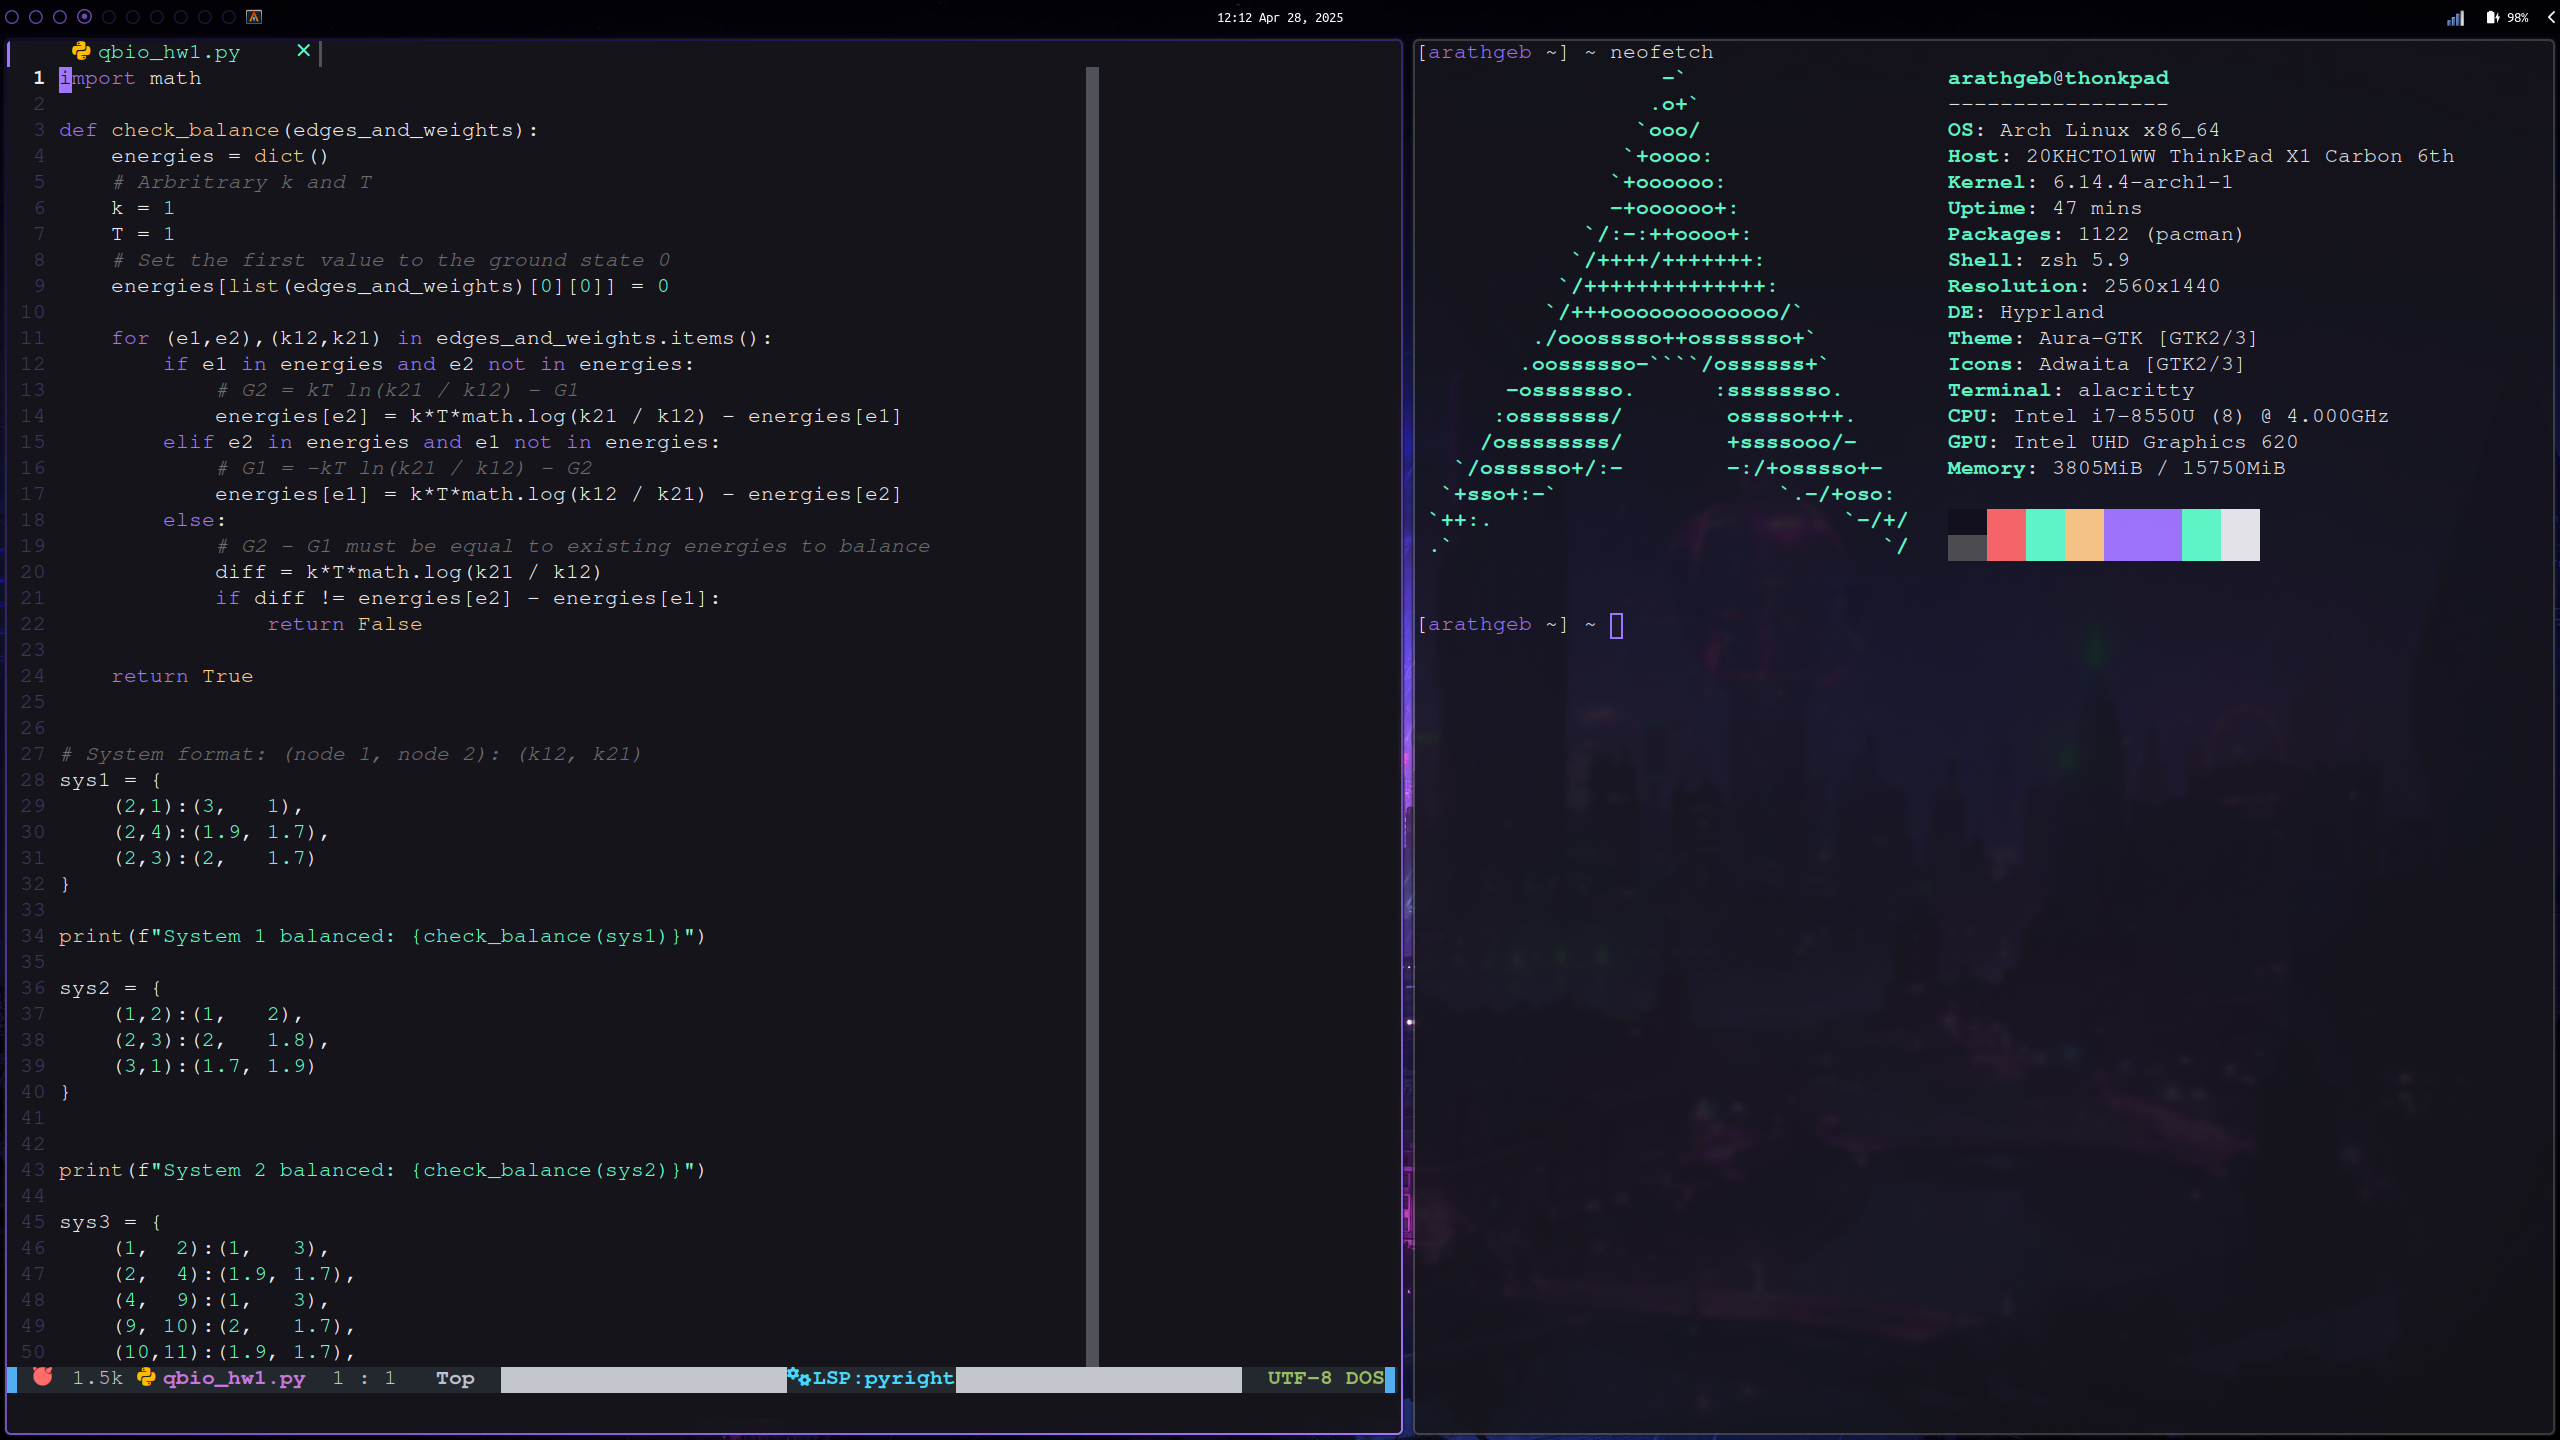
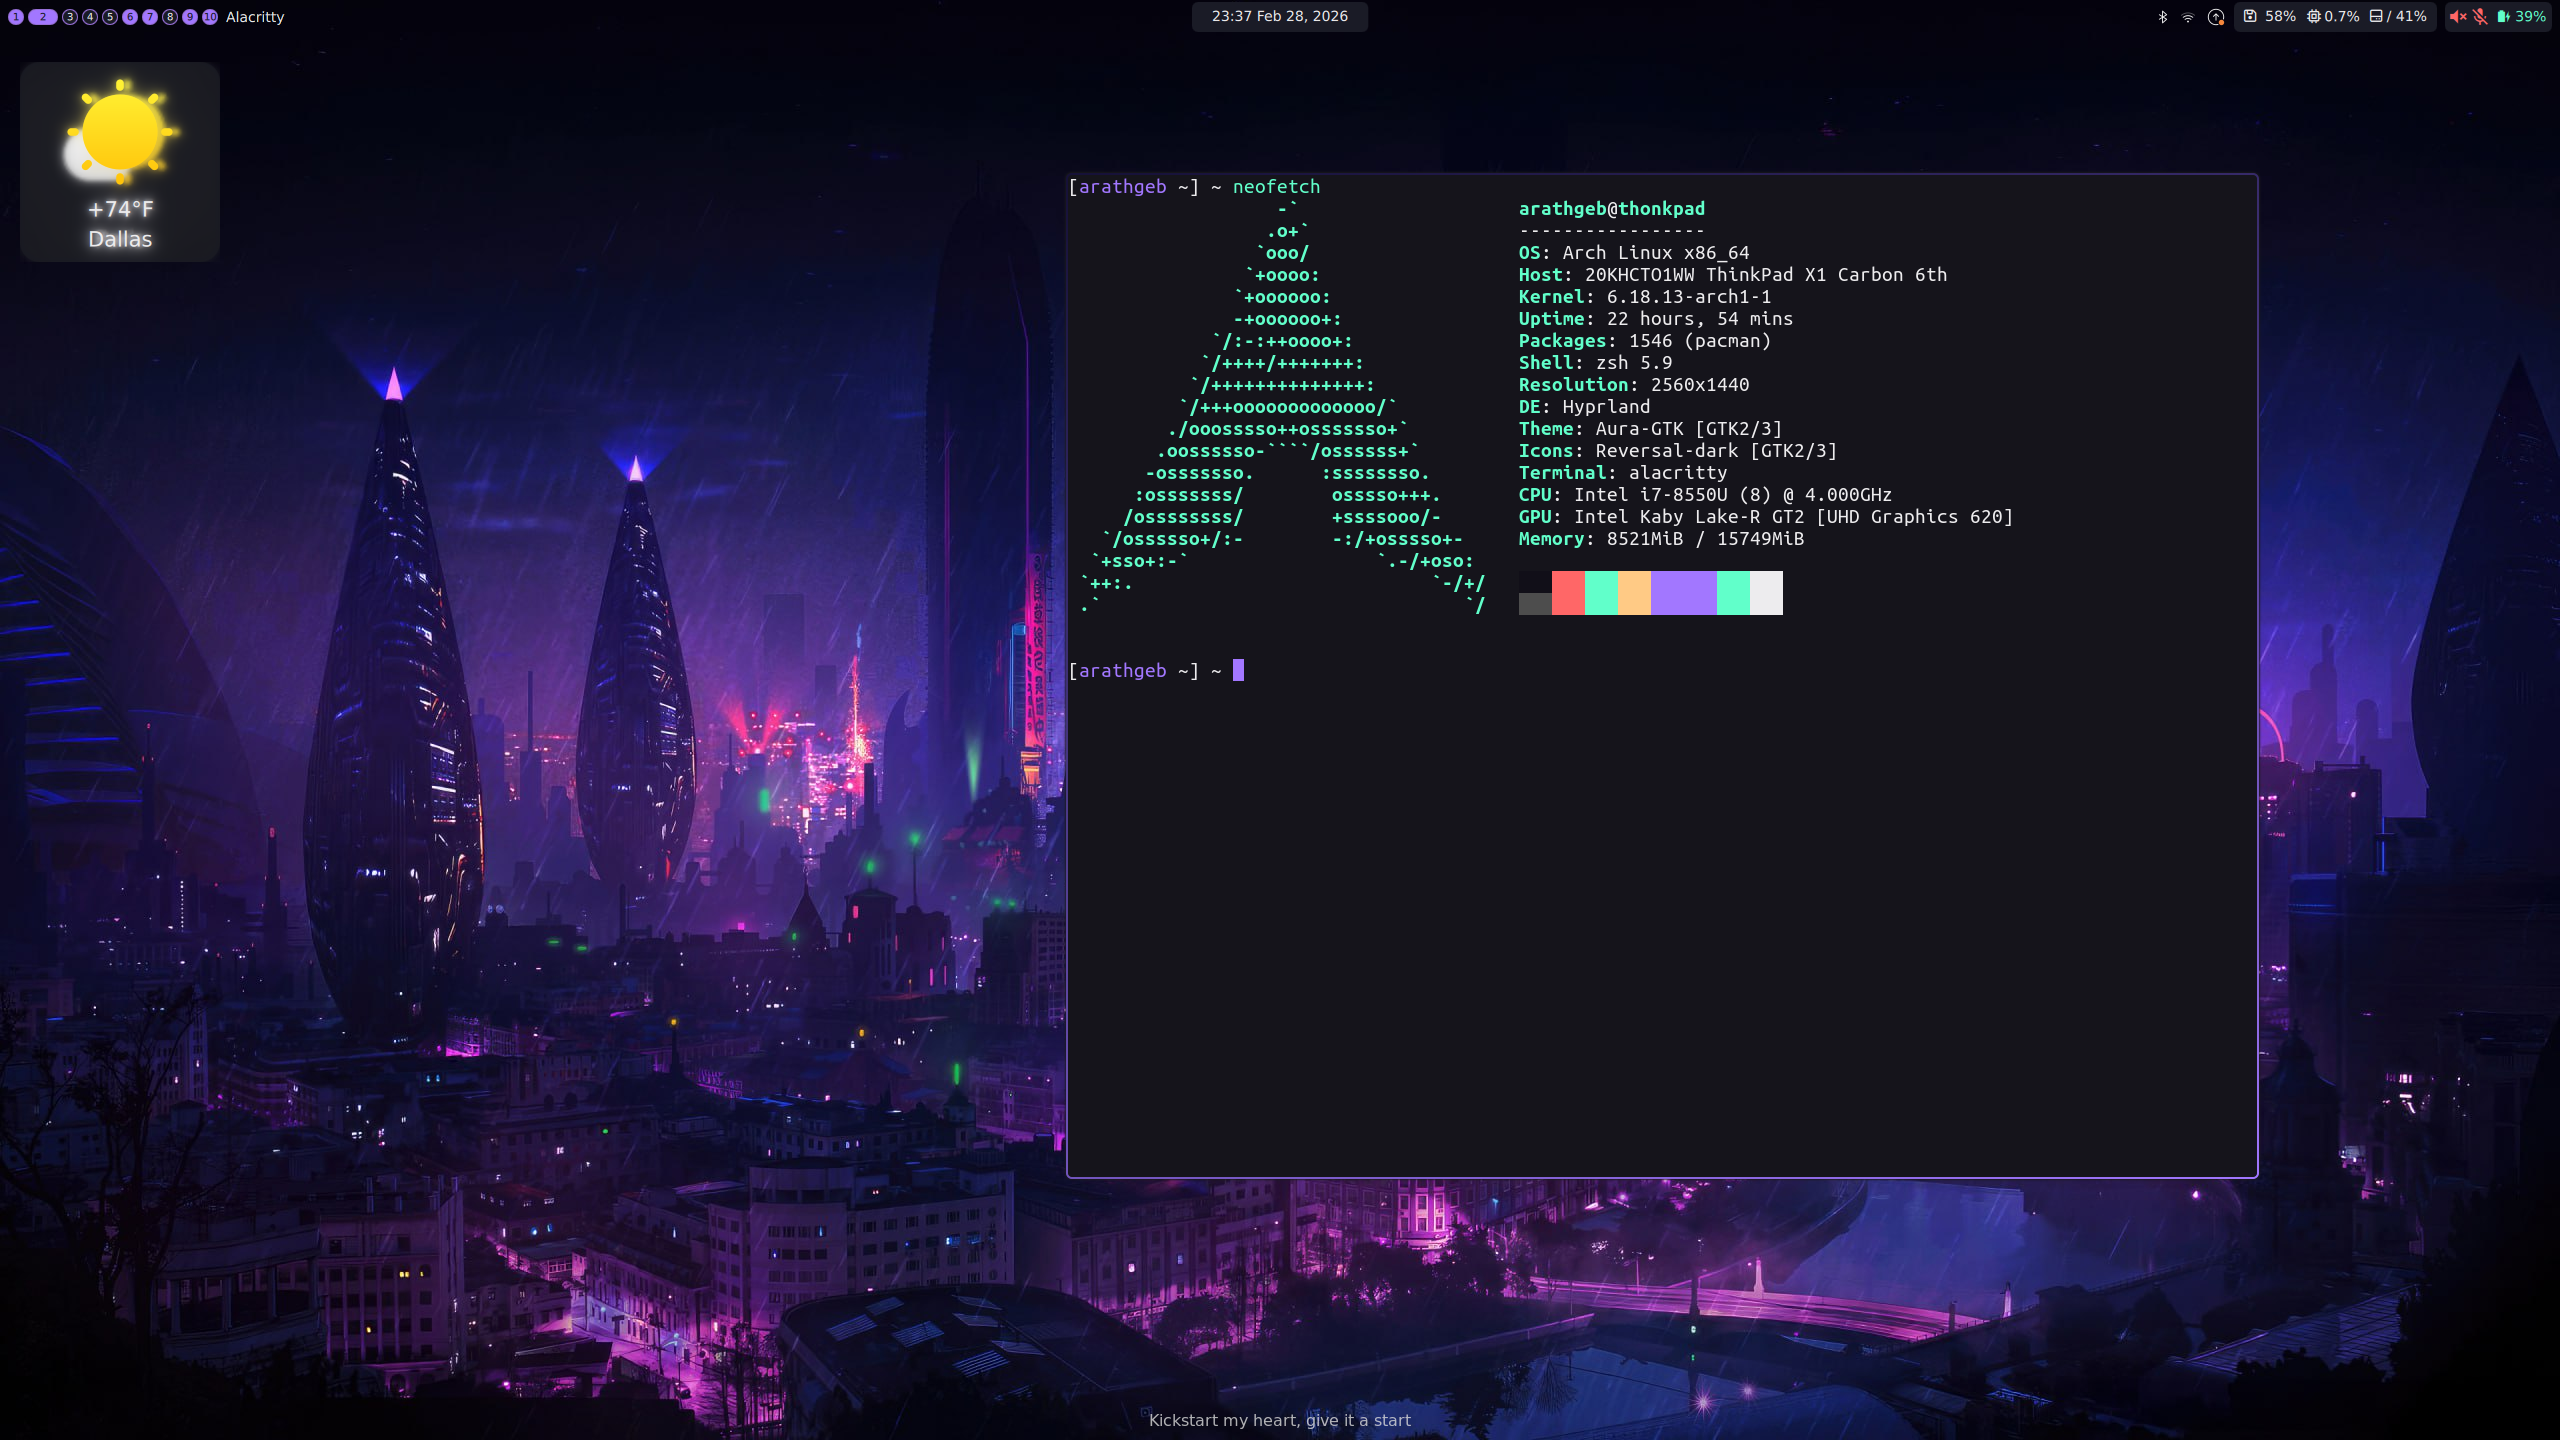
Add weather tile

diff --git a/.config/quickshell/services/Weather.qml b/.config/quickshell/services/Weather.qml
@@ -1,0 +1,83 @@
+pragma Singleton 
+
+import Quickshell
+import Quickshell.Io
+import QtQuick
+import qs
+
+Singleton {
+    id: root
+
+    property list<Information> weatherInformation: []
+
+    readonly property var icons: {
+        "m": "weather-few-clouds",
+        "?": "weather-none-available",
+        "mm": "weather-clouds",
+        "=": "weather-fog",
+        "///": "weather-storm",
+        "//": "weather-showers",
+        "**": "weather-snow",
+        ".": "weather-showers-scattered",
+
+    /*
+    "LightRain": "/",
+    "LightSleet": "x",
+    "LightSleetShowers": "x/",
+    */
+        "*/": "weather-snow-rain",
+        "*": "weather-snow-scattered",
+        "o": "weather-clear",
+        "/!/": "weather-showers-scattered-storm",
+        "!/": "weather-showers-scattered-storm",
+        "*!*": "weather-snow-storm",
+        "mmm": "weather-many-clouds",
+    }
+
+    function getUrl() {
+        let urlbase = `"https://wttr.in/{%1`.arg(Config.weatherCities[0])
+        for (let i = 1; i < Config.weatherCities.length; i++) {
+            urlbase += ",%1".arg(Config.weatherCities[i])
+        }
+        urlbase += `}?u&format=%l+%x+%t\\n"`
+        return urlbase
+    }
+
+    Process {
+        id: checkWeather
+        command: [ "sh", "-c", "curl -s " +  root.getUrl() ]
+        running: true
+        stdout: SplitParser {
+            onRead: data => {
+                console.log("Got input", data)
+                if (weatherInformation.length === Config.weatherCities.length) {
+                    weatherInformation.clear()
+                }
+                const [city, condition, temp] = data.split(" ")
+                console.log(city, condition, temp)
+                weatherInformation.push(information.createObject(null, {
+                    city: city,
+                    icon: "image://icon/" + icons[condition],
+                    temp:temp
+                }))
+            }
+        }
+    }
+
+    Timer {
+        interval: 180000
+        running: true
+        repeat: true 
+        onTriggered: checkWeather.running = true
+    }
+
+    component Information: QtObject {
+        property string city
+        property string icon 
+        property string temp
+    }
+    Component {
+        id: information 
+        Information {}
+    }
+}

diff --git a/.config/quickshell/widgets/tiles/WeatherTile.qml b/.config/quickshell/widgets/tiles/WeatherTile.qml
@@ -1,0 +1,60 @@
+import Quickshell
+import Quickshell.Widgets
+import QtQuick 
+import QtQuick.Controls
+import QtQuick.Layouts
+import qs
+import qs.services
+
+Tile {
+    id: root
+
+    property int currentWeather: 0
+
+    ColumnLayout {
+        id: weatherLayout
+        visible: Weather.weatherInformation.length > 0
+        anchors {
+            centerIn: parent 
+            margins: 10 
+            fill: parent
+        }
+        IconImage {
+            source: Weather.weatherInformation[root.currentWeather]?.icon
+            Layout.fillWidth: true 
+            Layout.fillHeight: true
+        }
+        Text {
+            text: Weather.weatherInformation[root.currentWeather]?.temp 
+            font.family: Config.theme.fontFamily
+            color: Config.theme.fgPrimary
+            horizontalAlignment: Text.AlignVCenter
+            Layout.alignment: Qt.AlignHCenter | Qt.AlignVCenter
+        }
+        Text {
+            text: Weather.weatherInformation[root.currentWeather]?.city 
+            font.family: Config.theme.fontFamily
+            color: Config.theme.fgPrimary
+            horizontalAlignment: Text.AlignVCenter
+            Layout.alignment: Qt.AlignHCenter | Qt.AlignVCenter
+        }
+    }
+    BusyIndicator {
+        id: busy
+        anchors.fill: parent
+        anchors.centerIn: parent
+        running: Weather.weatherInformation.length === 0
+        visible: this.running
+    }
+
+    Timer {
+        interval: 30000
+        repeat: true
+        running: true
+        onTriggered: {
+            currentWeather = (currentWeather + 1) % Weather.weatherInformation.length
+            root.visible = false 
+            root.visible = true
+        }
+    }
+}

diff --git a/.config/quickshell/CalendarWidget.qml b/.config/quickshell/CalendarWidget.qml
@@ -10,15 +10,31 @@ Rectangle {
     implicitHeight: layout.implicitHeight + 30
     radius: 20
 
+    property var months: [
+                            "January", "February", "March", "April", "May", "June",
+                            "July", "August", "September", "October", "November", "December"
+                        ]
+
     ColumnLayout {
         id: layout
         anchors.centerIn: parent
+        Text {
+            text: months[new Date().getMonth()]
+            color: Config.theme.fgPrimary
+            horizontalAlignment: Text.AlignHCenter
+            font.family: Config.theme.fontFamily
+            Layout.fillWidth: true
+        }
         DayOfWeekRow {
             locale: grid.locale 
             Layout.fillWidth: true
             Layout.fillHeight: true
         }
         MonthGrid {
+            id: grid 
+            locale: Qt.locale()
+            Layout.fillWidth: true
+            Layout.fillHeight: true
             delegate: Text {
                 horizontalAlignment: Text.AlignHCenter 
                 verticalAlignment: Text.AlignVCenter
@@ -47,12 +63,7 @@ Rectangle {
                         Qt.openUrlExternally(url.arg(year).arg(month).arg(day))
                     }
                 }
-
             }
-            id: grid 
-            locale: Qt.locale()
-            Layout.fillWidth: true
-            Layout.fillHeight: true
         }
     }
 }

diff --git a/.config/quickshell/shell.qml b/.config/quickshell/shell.qml
@@ -2,6 +2,7 @@
 import Quickshell
 import Quickshell.Hyprland
 import QtQuick
+import qs.widgets.tiles
 
 ShellRoot {
     id: shellRoot 
@@ -9,6 +10,34 @@ ShellRoot {
     property bool showCalendar: false 
     property bool showControlCenter: false
     property bool showUpdateCenter: false
+
+    LazyLoader {
+        active: true 
+        Variants {
+            model: Quickshell.screens
+            PanelWindow {
+                property var modelData 
+                screen: modelData 
+                id: tiles
+                anchors {
+                    top: true 
+                    left: true
+                }
+                margins {
+                    top: 30
+                    left: 20
+                }
+                exclusiveZone: ExclusionMode.Normal
+                aboveWindows: false
+                color: "transparent"
+                implicitHeight: tileIcons.implicitHeight
+                implicitWidth: tileIcons.implicitWidth
+                Tiles {
+                    id: tileIcons
+                }
+            }
+        }
+    }
 
     // Calendar
     LazyLoader {

diff --git a/.config/quickshell/services/DoNotDisturb.qml b/.config/quickshell/services/DoNotDisturb.qml
@@ -1,0 +1,32 @@
+pragma Singleton 
+
+import Quickshell
+import Quickshell.Io 
+
+Singleton {
+    id: root 
+
+    property bool dndEnabled: false
+
+    function toggleDND() {
+        dnd.running = true
+        checkDnd.running = true
+    }
+
+    Process {
+        id: dnd
+        command: [ "dunstctl", "set-paused", "toggle"]
+        running: false
+    }
+
+    Process {
+        id: checkDnd
+        command: [ "dunstctl", "is-paused"]
+        stdout: StdioCollector {
+            onStreamFinished: {
+                root.dndEnabled = this.text.trim() === 'true'
+            } 
+        }
+        running: true
+    }
+}

diff --git a/.config/quickshell/widgets/tiles/Tile.qml b/.config/quickshell/widgets/tiles/Tile.qml
@@ -1,0 +1,33 @@
+import Quickshell 
+import QtQuick 
+import QtQuick.Effects
+import qs
+
+Rectangle {
+    id: root
+    clip: true
+    radius: 20
+
+    color: Qt.rgba(
+        Config.theme.bgBase.r,
+        Config.theme.bgBase.g,
+        Config.theme.bgBase.b,
+        0.75
+    )
+
+    implicitHeight: 200
+    implicitWidth: 200
+
+    // Frosted glass effects 
+    MultiEffect {
+        id: frost
+        source: root
+        anchors.fill: parent
+        blurEnabled: true
+        blurMax: 16
+        blur: .75
+        colorizationColor: "#40FFFFFF"
+        colorization: .5
+        
+    }
+}

diff --git a/.config/quickshell/ControlCenter.qml b/.config/quickshell/ControlCenter.qml
@@ -120,6 +120,14 @@ Rectangle {
                     airplaneOn = !airplaneOn
                 }
             }
+            RoundedButton {
+                Layout.fillWidth: true 
+                Layout.fillHeight: true 
+                text: "Do not Disturb"
+                onClicked: DoNotDisturb.toggleDND()
+                imageIcon: DoNotDisturb.dndEnabled ? "image://icon/notifications-active-symbolic" : "image://icon/notifications-disabled-symbolic" 
+                color: DoNotDisturb.dndEnabled ? Config.theme.surface1 : Config.theme.surface0 
+            }
         }
     }
 }

diff --git a/.config/quickshell/Config.qml b/.config/quickshell/Config.qml
@@ -13,10 +13,12 @@ Singleton {
     property alias battery: batteryOptions
     property alias audio: audioOptions
 
-    property int updateFrequencySeconds: 6000 // Once an hour
+    property int updateFrequencySeconds: 3600
     property string terminal: "alacritty"
     property string updateCommand: "paru -Syu"
     property string updateCheck: "checkupdates && paru -Qua"
+
+    property list<string> weatherCities: ["Dallas", "Paris"]
 
     QtObject {
         id: batteryOptions

diff --git a/.config/quickshell/UpdatesWidget.qml b/.config/quickshell/UpdatesWidget.qml
@@ -18,7 +18,7 @@ Rectangle {
         anchors.fill: parent
         anchors.margins: parent.border.width
         RoundedButton {
-            imageIcon: "image://icon/download"
+            imageIcon: Quickshell.iconPath("download")
             text: "Update"
             Layout.fillWidth: true
             onClicked: Updates.update()

diff --git a/.config/quickshell/widgets/tiles/Tiles.qml b/.config/quickshell/widgets/tiles/Tiles.qml
@@ -1,0 +1,18 @@
+import Quickshell
+import QtQuick 
+import QtQuick.Layouts
+
+Rectangle {
+    id: root 
+
+    color: "transparent"
+
+    implicitHeight: grid.implicitHeight
+    implicitWidth: grid.implicitWidth
+
+    GridLayout {
+        id: grid
+        columns: 1
+        WeatherTile {}
+    }
+}

diff --git a/.config/quickshell/widgets/indicators/BrightnessSlider.qml b/.config/quickshell/widgets/indicators/BrightnessSlider.qml
@@ -15,7 +15,7 @@ SliderIcon {
     background: Rectangle {
         radius: 16
         implicitHeight: 30
-        color: Config.theme.surface1
+        color: Config.theme.bgSecondary
         width: root.availableWidth
         height: 30
         Rectangle {

diff --git a/.config/quickshell/widgets/indicators/VolumeSlider.qml b/.config/quickshell/widgets/indicators/VolumeSlider.qml
@@ -25,7 +25,7 @@ SliderIcon {
     background: Rectangle {
         radius: 16
         implicitHeight: 30
-        color: Config.theme.surface1
+        color: Config.theme.bgSecondary
         width: root.availableWidth
         height: 30
         Rectangle {
